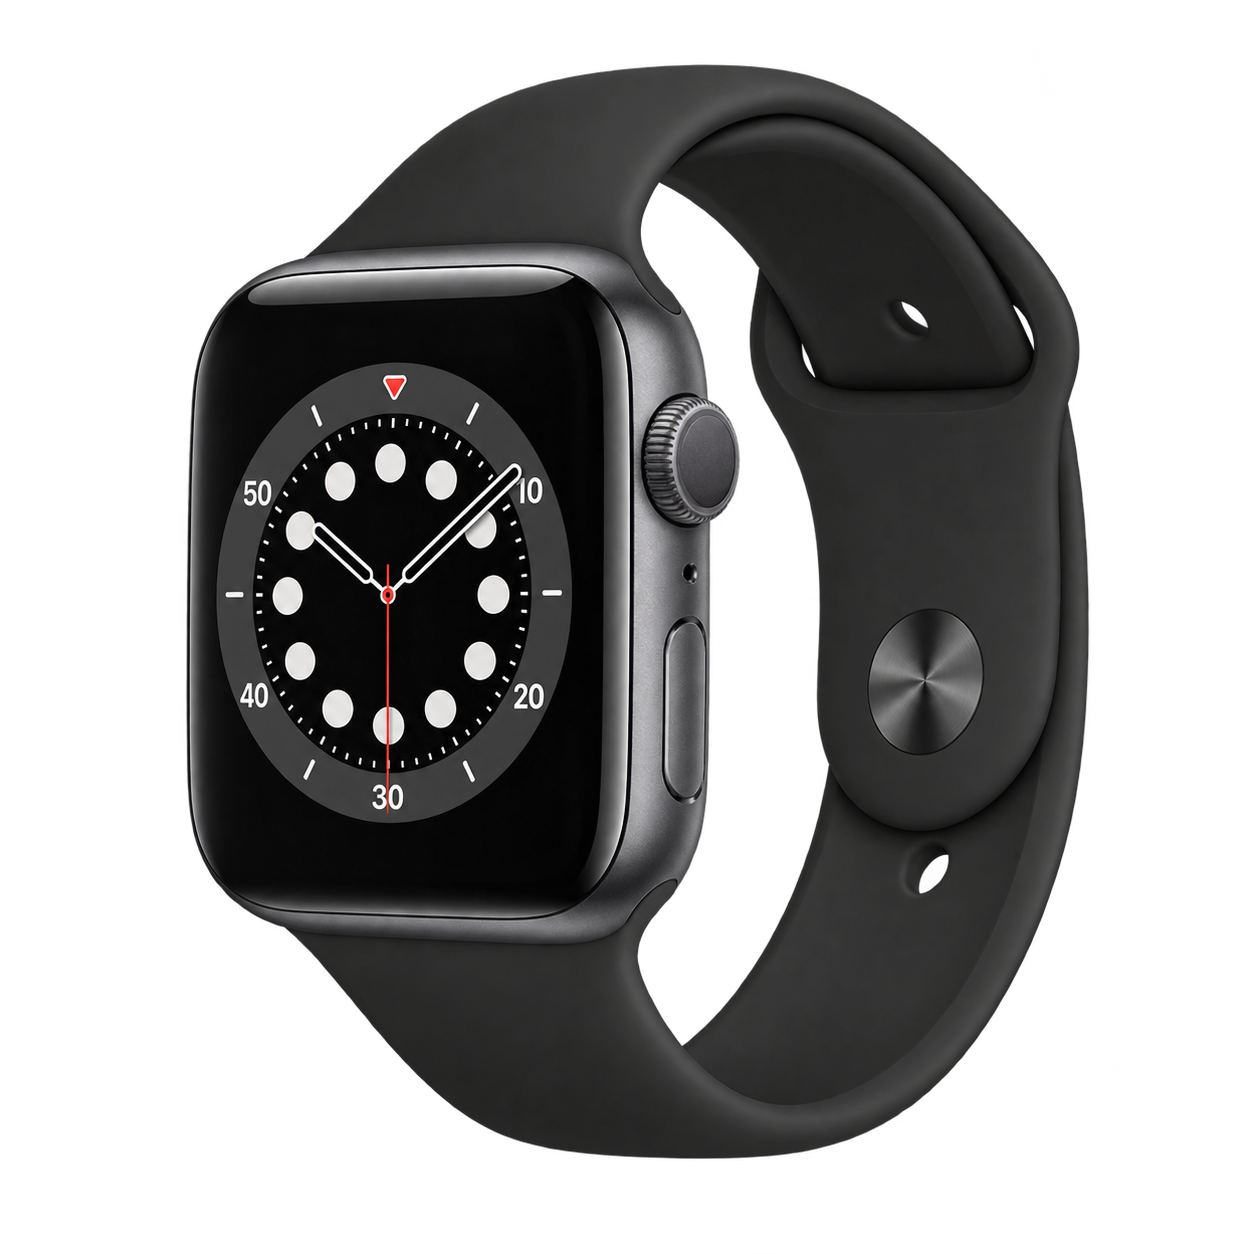
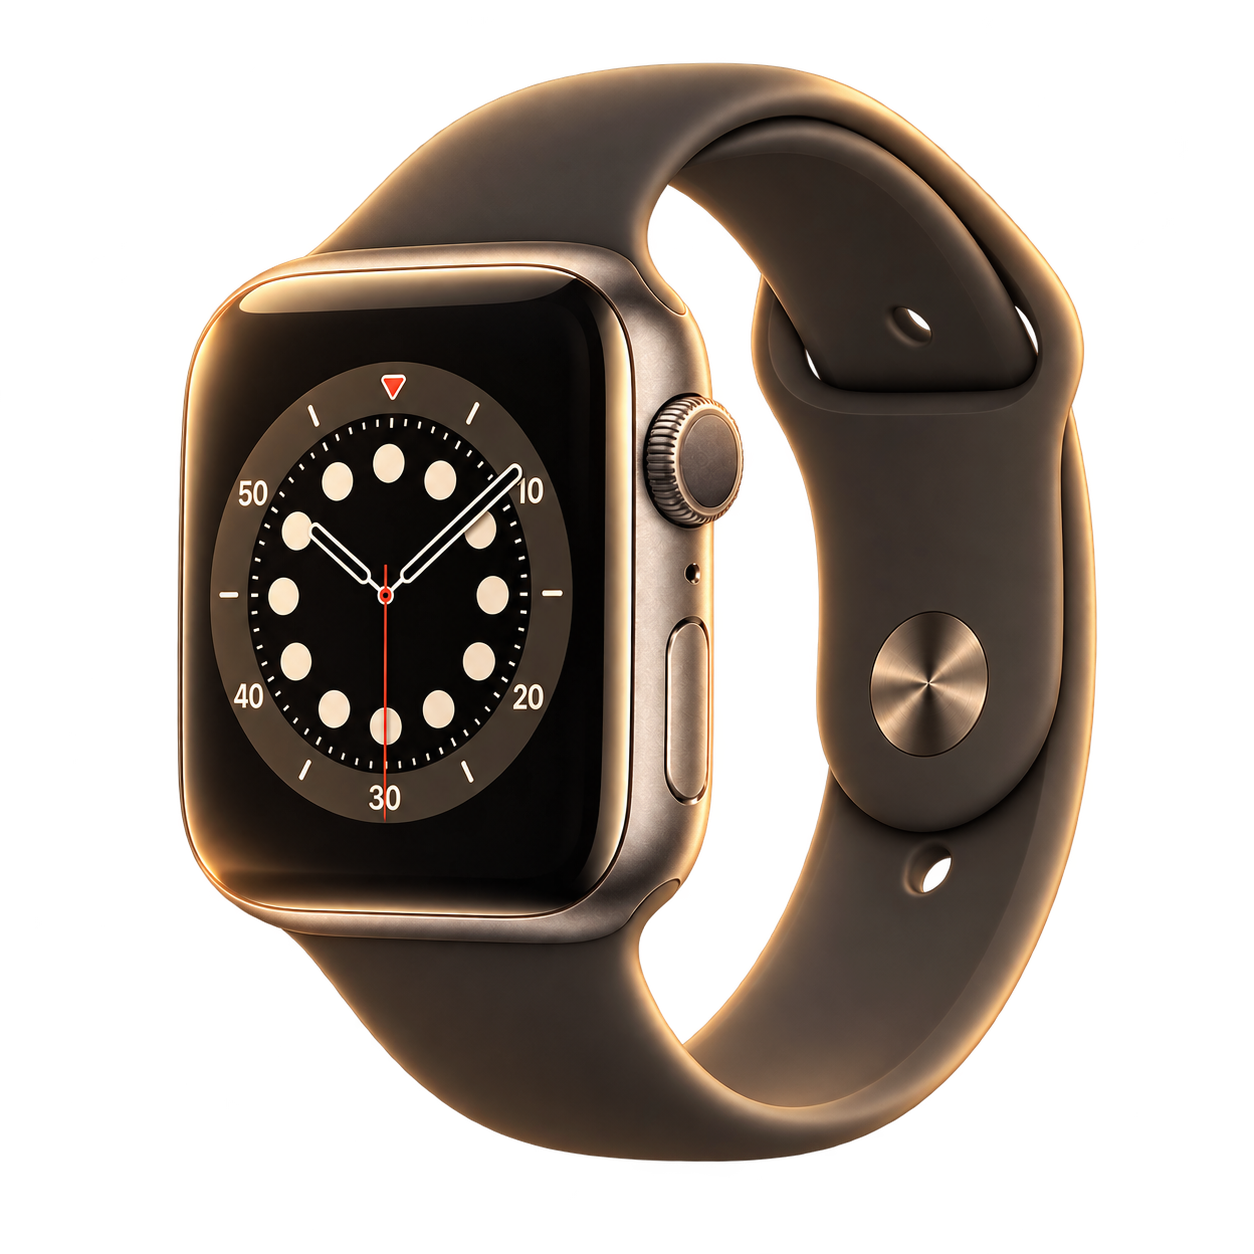
style(slider): update slide images and add shadow

Changed region(s): [[0.1244, 0.0311, 0.9019, 0.933], [0.7153, 0.6842, 0.7775, 0.7153], [0.7153, 0.2488, 0.7464, 0.2799]]

diff --git a/src/components/organisms/HeroSlider/HeroSlider.tsx b/src/components/organisms/HeroSlider/HeroSlider.tsx
@@ -1,4 +1,4 @@
-import { useRef } from 'react';
+import { useRef, useState } from 'react';
 import classNames from 'classnames';
 
 import { Swiper as Slider, SwiperSlide } from 'swiper/react';
@@ -32,6 +32,8 @@ export const HeroSlider = ({ data, className }: Props) => {
   const swiperRef = useRef<SwiperType | null>(null);
   const paginationRef = useRef<HTMLDivElement | null>(null);
 
+  const [currentSlideIndex, setCurrentSlideIndex] = useState(0);
+
   const updateProgress = (swiper: SwiperType, percentage: number) => {
     const bullets = paginationRef.current?.querySelectorAll<HTMLElement>(
       '.swiper-pagination-bullet',
@@ -50,7 +52,13 @@ export const HeroSlider = ({ data, className }: Props) => {
   };
 
   return (
-    <section className={classNames(styles.container, className)}>
+    <section
+      className={classNames(
+        styles.container,
+        className,
+        styles[data.slides[currentSlideIndex].colorScheme],
+      )}
+    >
       <div className={styles.content}>
         <div className={styles.sliderContainer}>
           <Slider
@@ -93,6 +101,10 @@ export const HeroSlider = ({ data, className }: Props) => {
             }}
             onSwiper={(swiper) => {
               swiperRef.current = swiper;
+              setCurrentSlideIndex(swiper.realIndex);
+            }}
+            onSlideChange={(swiper) => {
+              setCurrentSlideIndex(swiper.realIndex);
             }}
             onAutoplayTimeLeft={(swiper, _timeLeft, percentage) => {
               updateProgress(swiper, percentage);

diff --git a/src/components/organisms/HeroSlider/HeroSlider.module.scss b/src/components/organisms/HeroSlider/HeroSlider.module.scss
@@ -8,23 +8,52 @@
   grid-column: 1 / -1;
 
   min-width: 0;
+  position: relative;
+
+  transition: box-shadow $transition-time;
+
+  @include on('tablet') {
+    border-radius: 16px;
+  }
+
+  @include on('desktop') {
+    border-radius: 20px;
+  }
+
+  box-shadow: rgba(100, 100, 111, 0.2) 0px 7px 29px 0px;
+
+  &.purple {
+    box-shadow: rgba(243, 48, 198, 0.2) 0px 7px 29px 0px;
+  }
+
+  &.yellow {
+    box-shadow: rgba(234, 211, 59, 0.2) 0px 7px 29px 0px;
+  }
+
+  &.blue {
+    box-shadow: rgba(65, 59, 234, 0.2) 0px 7px 29px 0px;
+  }
 }
 
 .content {
   grid-column: 1 / -1;
   min-width: 0;
+  border-radius: inherit;
 }
 
 .sliderContainer {
-  position: relative;
+  border-radius: inherit;
 
+  overflow: hidden;
+
+  position: relative;
+  border-radius: inherit;
   width: 100vw;
   min-width: 0;
   margin-left: calc(50% - 50vw);
 
   aspect-ratio: 1 / 1;
 
-  overflow: hidden;
   background: #000;
 
   @include on('tablet') {
@@ -32,11 +61,6 @@
     margin-left: 0;
 
     aspect-ratio: 2.6 / 1;
-    border-radius: 16px;
-  }
-
-  @include on('desktop') {
-    border-radius: 20px;
   }
 }
 
